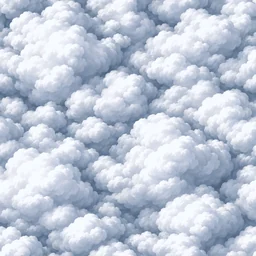
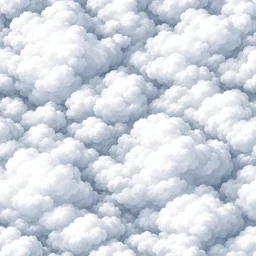
MR2 clouds like Civ V: brighter sunny grade, bigger crisp heaps, crisper bank
- Deck grade: calmer blue and lifted, so the sea reads sunny beside the bright map, not overcast.
- Heaps a bit bigger far out (640 px repeat); the two repeat sizes cross-fade only mid-doubling, so
  most zooms show one crisp picture instead of two laid over each other.
- The high bank's edge over the low cloud is crisper (no band of mush); lighter edge shading.

diff --git a/web/src/game/maproom/painted/cloudShader.ts b/web/src/game/maproom/painted/cloudShader.ts
@@ -73,12 +73,15 @@ const float EDGE_HIGH = ${CLOUD_EDGE_HIGH.toFixed(4)};
 // heap is a cell or more across, as in Civ V, not a pebble on the land.
 const float DECK_PIXELS = ${DECK_PIXELS.toFixed(1)};
 const float DECK_MIN_CELLS = ${DECK_MIN_CELLS.toFixed(1)};
+// The two repeat sizes cross-fade only in the middle of each doubling (two pictures laid over each other
+// read as mush), so at most zooms the heaps are one crisp picture.
+const float DECK_FADE_FROM = 0.3;
 // Big masses of cloud under the heaps, MASS_REPEATS repeats of the picture across: lit on their
 // sunward side, shaded on the far side, the dips between them deeper and cooler (Medium and High).
 // They give the sea depth and hide the picture's repeat.
 const float MASS_REPEATS = 2.3;
-const float MASS_LIGHT = 0.16;
-const vec3 MASS_DIP = vec3(0.80, 0.84, 0.90);
+const float MASS_LIGHT = 0.1;
+const vec3 MASS_DIP = vec3(0.88, 0.91, 0.95);
 // The low cloud's fringe thins into streaky wisps over this much depth (cells) inside its edge, so
 // the bank still reaches as far over the seen land but ends in wisps, not a cut-out edge.
 const float WISP_DEPTH = 0.13;
@@ -100,10 +103,10 @@ const float LAND_SHADOW_ALPHA = 0.32;
 const float BANK_SHADOW = 0.12;
 const vec3 SHADOW_COLOUR = vec3(0.08, 0.12, 0.22);
 // The low cloud between the land and the high bank is in the bank's shade: bluer and darker.
-const vec3 LOW_SHADE = vec3(0.93, 0.94, 0.96);
+const vec3 LOW_SHADE = vec3(0.96, 0.97, 0.98);
 // The bank's underside and side wall along its edge (a cool neutral grey, not lavender), the sun,
 // and the way a tilted camera looks (its side walls show on edges facing down the screen).
-const vec3 UNDERSIDE = vec3(0.66, 0.71, 0.79);
+const vec3 UNDERSIDE = vec3(0.76, 0.80, 0.86);
 const vec2 VIEW = vec2(0.0, 1.0);
 const vec2 SUN = vec2(-0.7071, -0.7071);
 
@@ -255,7 +258,7 @@ vec3 deckAt(vec2 p, float cellPixels, vec2 shift) {
   vec3 a = texture(uDeck, (p - drift) / span0 + shift).rgb;
   if (uQuality < 0.5) return a;
   vec3 b = texture(uDeck, (p - drift * 0.6) / (span0 * 2.0) + shift + 0.37).rgb;
-  return mix(a, b, smoothstep(0.0, 1.0, level - base));
+  return mix(a, b, smoothstep(DECK_FADE_FROM, 1.0 - DECK_FADE_FROM, level - base));
 }
 
 void main() {
@@ -269,7 +272,8 @@ void main() {
   float eLow = depth - lowEdge(h, stir);
   float eHigh = depth - highEdge(h, upper, stir);
   float softLow = max(fwidth(eLow) * 0.8, 0.02);
-  float softHigh = max(fwidth(eHigh) * 0.8, 0.05 + 0.04 * upper);
+  // The bank's edge is fairly crisp: a wide fade lays the two layers' heaps over each other as mush.
+  float softHigh = max(fwidth(eHigh) * 1.2, 0.02 + 0.012 * upper);
   float low = smoothstep(-softLow, softLow, eLow);
   float high = smoothstep(-softHigh, softHigh, eHigh);
   // Which way the bank lies (worked out here: derivatives are undefined inside branches).
@@ -319,14 +323,14 @@ void main() {
     vec3 lowColour = deckAt(vWorld, cellPixels, vec2(0.0)) * LOW_SHADE * mix(vec3(1.0), UNDERSIDE, 0.75 * bankShadow);
     // Its puffs round over at the edge of sight too.
     float rimLow = 1.0 - smoothstep(0.0, 0.22, eLow);
-    float shadeLow = clamp(0.3 - 0.35 * facingLow + 0.3 * wallLow, 0.0, 0.75);
+    float shadeLow = clamp(0.25 - 0.3 * facingLow + 0.25 * wallLow, 0.0, 0.55);
     lowColour = mix(lowColour, lowColour * UNDERSIDE, rimLow * shadeLow);
     lowColour += rimLow * max(facingLow, 0.0) * 0.08;
     // The high bank: its own heaps (the picture shifted), rounding over along its edge, lit where
     // it faces the sun, its underside in the shade.
     vec3 highColour = deckAt(vWorld, cellPixels, vec2(0.43, 0.21));
     float rim = 1.0 - smoothstep(0.0, 0.3 * upper + 0.12, eHigh);
-    float shade = clamp(0.3 - 0.35 * facing + 0.35 * wallHigh, 0.0, 0.8);
+    float shade = clamp(0.25 - 0.3 * facing + 0.3 * wallHigh, 0.0, 0.6);
     highColour = mix(highColour, highColour * UNDERSIDE, rim * shade);
     highColour += rim * max(facing, 0.0) * 0.09;
     colour = mix(lowColour, highColour, high);

diff --git a/web/src/game/maproom/painted/CloudLayer.ts b/web/src/game/maproom/painted/CloudLayer.ts
@@ -11,14 +11,14 @@ import type { GroundData } from "./GroundData";
 const DECK_URL = `${import.meta.env.BASE_URL}maproom/painted/cloud-deck@4x.webp`;
 
 /** The cloud picture's average colour, drawn until it lands. */
-const DECK_COLOUR = [0.75, 0.78, 0.85] as const;
+const DECK_COLOUR = [0.85, 0.87, 0.9] as const;
 
 /**
  * The colour the painted ground gives fog cells while the clouds cover them: the cloud's own shade,
  * so wherever the cloud's soft edge thins over a fog cell it shows cloud, not the dark fog of the
  * tile map (`PaintedGround.setFogColour`).
  */
-export const FOG_UNDER_CLOUD = 0xc4ccd9;
+export const FOG_UNDER_CLOUD = 0xd6dbe3;
 
 const QUALITY_LEVEL: Record<Quality, number> = { high: 2, medium: 1, low: 0 };
 

diff --git a/web/src/game/maproom/painted/clouds.ts b/web/src/game/maproom/painted/clouds.ts
@@ -200,7 +200,7 @@ export const fogDepth = (
  * `DECK_MIN_CELLS` cells, so close up its biggest heaps (a third of it) are a cell or more across,
  * as Civ V's are, not pebbles on the land.
  */
-export const DECK_PIXELS = 520;
+export const DECK_PIXELS = 640;
 export const DECK_MIN_CELLS = 4;
 
 /**

diff --git a/web/tools/mr2-cloud-kit/build.py b/web/tools/mr2-cloud-kit/build.py
@@ -7,7 +7,7 @@ Each folder here (deck, banks) holds prompt.txt and the picture Codex painted fr
 
 - deck: a seamless square of solid, sunlit cumulus seen from above (Civ V's unexplored clouds were the
   owner's reference, 3 Nov), the painted fog (`painted/cloudShader.ts`). Graded on the way (`grade`):
-  the shade in the creases is turned from Codex's sky blue towards a cool neutral grey.
+  the shade in the creases is turned from Codex's sky blue towards a cool neutral grey and lifted.
     web/public/maproom/painted/cloud-deck@4x.webp   1024 px (Quality High)
     web/public/maproom/painted/cloud-deck@2x.webp   512 px (Medium)
     web/public/maproom/painted/cloud-deck.webp      256 px (Low)
@@ -92,15 +92,19 @@ def pack_grid(parts: list[np.ndarray], height: int) -> tuple[np.ndarray, list[tu
 # The deck's shade: this share of each pixel's colour away from its own grey is kept (Codex paints
 # the creases a strong sky blue; Civ-like cloud shade is a cool, nearly neutral grey), and the grey
 # is tinted this cool.
-DECK_SATURATION = 0.55
-DECK_COOL = np.array([0.97, 0.99, 1.04], np.float32)
+DECK_SATURATION = 0.45
+DECK_COOL = np.array([0.98, 0.99, 1.02], np.float32)
+# Then lifted (1 - (1 - c) ** DECK_LIFT): sunlit tops nearer white and the creases a lighter grey, so the
+# sea reads sunny beside the bright map, not overcast.
+DECK_LIFT = 1.25
 
 
 def grade(rgb: np.ndarray) -> np.ndarray:
     """Calms the deck's blue shade to a cool grey, keeping its light and dark."""
     luma = rgb @ np.array([0.299, 0.587, 0.114], np.float32)
     grey = luma[..., None] * DECK_COOL
-    return np.clip(grey + (rgb - luma[..., None]) * DECK_SATURATION, 0, 1)
+    calm = np.clip(grey + (rgb - luma[..., None]) * DECK_SATURATION, 0, 1)
+    return 1 - (1 - calm) ** DECK_LIFT
 
 
 def main() -> None:
